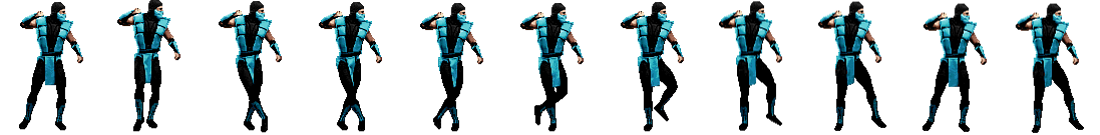
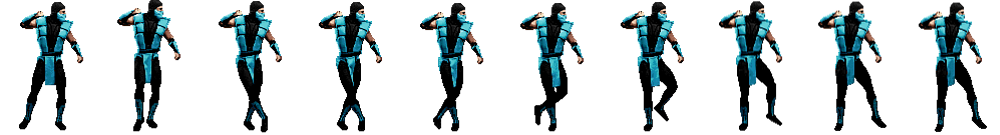
Cambio de sprite walk para que sea mas suave

diff --git a/src/Character.cpp b/src/Character.cpp
@@ -43,7 +43,7 @@ bool Character::load(SDL_Renderer* render) {
 	}
 
 	Sprite* spriteWalk = new Sprite(this->name+WALK_SUFFIX, characterPath+WALK_SPRITE,
-			renderer, SPRITE_WIDTH, SPRITE_HEIGHT, 11);
+			renderer, SPRITE_WIDTH, SPRITE_HEIGHT, 10);
 	Sprite* spriteStance = new Sprite(this->name+STANCE_SUFFIX, characterPath+STANCE_SPRITE,
 			renderer, SPRITE_WIDTH, SPRITE_HEIGHT, 6);
 	Sprite* spriteJump = new Sprite(this->name+JUMP_SUFFIX, characterPath+JUMP_SPRITE,
